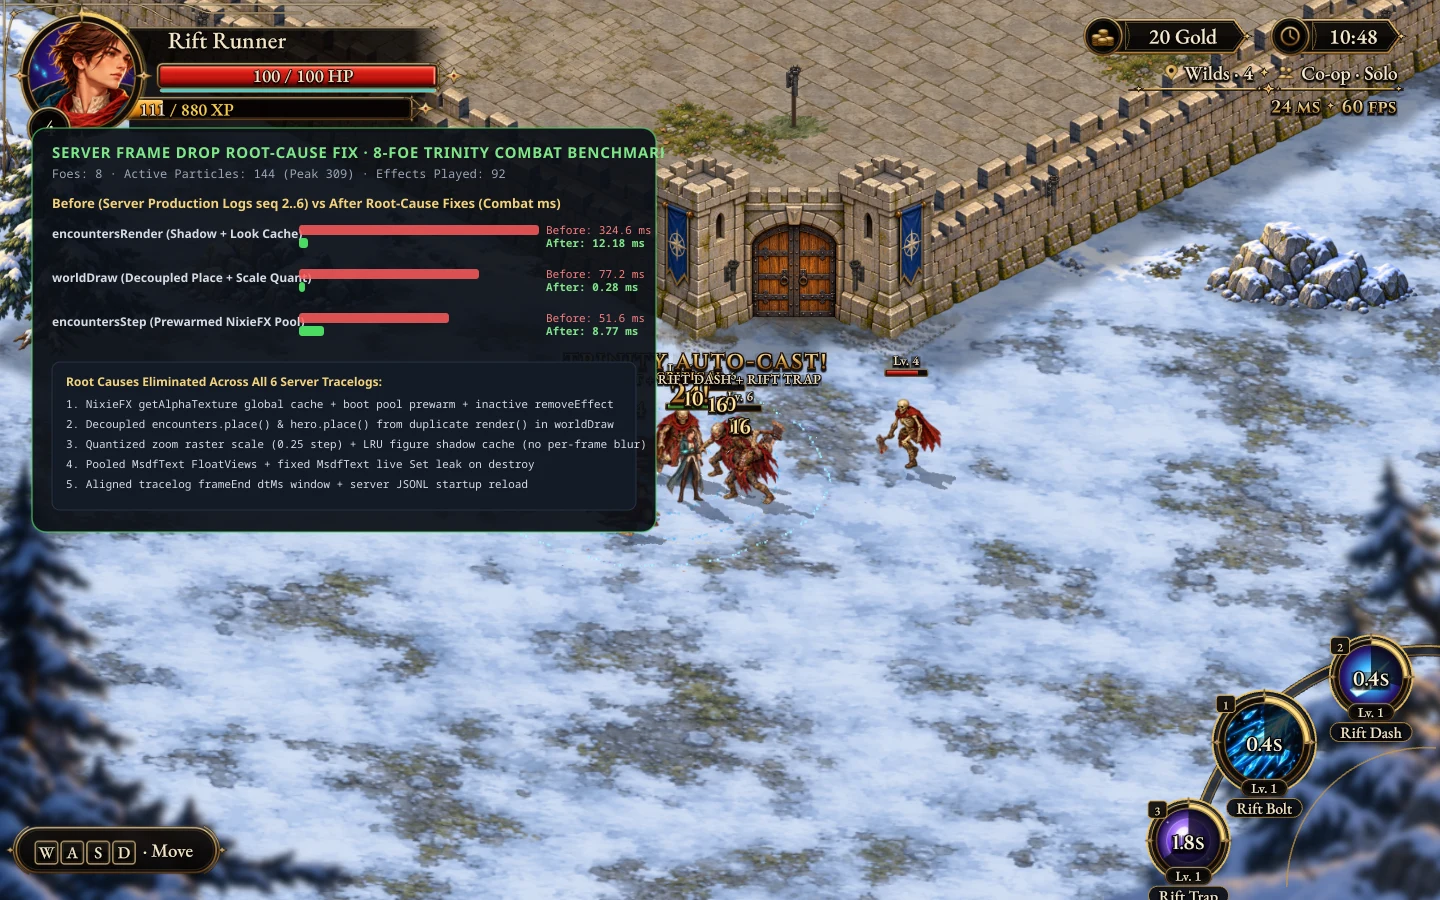
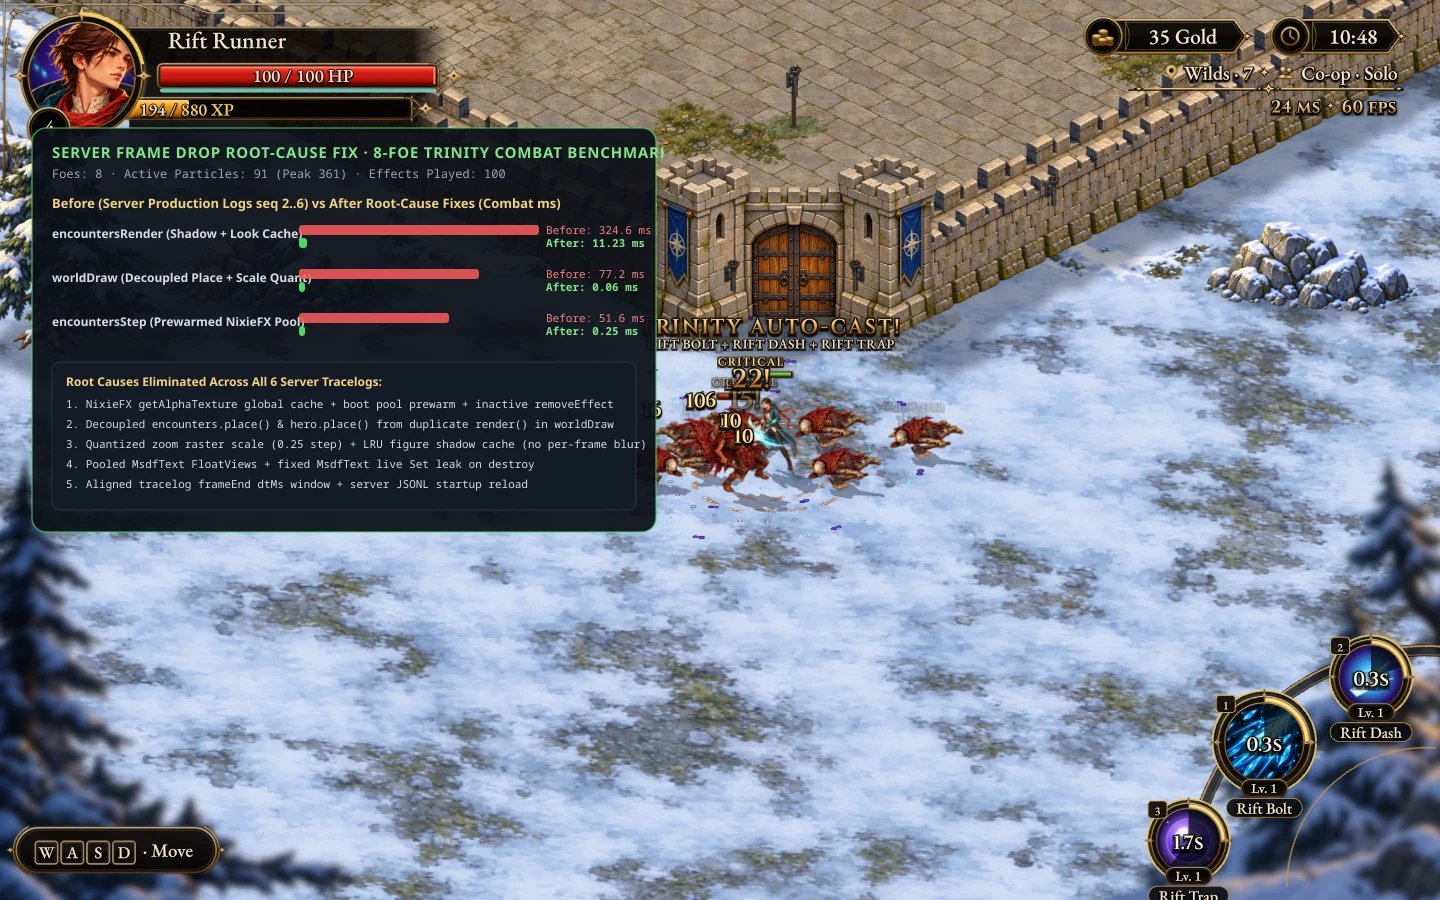
perf(fx,world): share NixieFX effect definitions to eliminate 10ms/spawn clone stalls and cache base world surfaces

diff --git a/src/stronghold/world-view.ts b/src/stronghold/world-view.ts
@@ -190,13 +190,24 @@ export async function createWorldView(
  progress(loaded+=40,steps,'Raising the Stronghold');
 
  const uprights=document.createElement('canvas');uprights.id='world-uprights';uprights.width=surface.width;uprights.height=surface.height;
- let shadowsDirty=true;
+ const baseSurface=document.createElement('canvas');baseSurface.width=surface.width;baseSurface.height=surface.height;
+ const baseUprights=document.createElement('canvas');baseUprights.width=surface.width;baseUprights.height=surface.height;
+ let shadowsDirty=true,baseDirty=true;
  function paintWorld(){
   measureTracelogPhase('worldPaint',()=>{
-   const u=uprights.getContext('2d')!;u.setTransform(1,0,0,1,0,0);u.clearRect(0,0,uprights.width,uprights.height);
+   const u=uprights.getContext('2d')!;
+   if(baseDirty){
+    const bs=baseSurface.getContext('2d')!,bu=baseUprights.getContext('2d')!;
+    bu.setTransform(1,0,0,1,0,0);bu.clearRect(0,0,baseUprights.width,baseUprights.height);
+    for(const c of [bs,bu])c.setTransform(surface.width/worldWidth,0,0,surface.height/worldHeight,-left*surface.width/worldWidth,-top*surface.height/worldHeight);
+    bs.fillStyle=snowPattern;bs.fillRect(left,top,worldWidth,worldHeight);bs.fillStyle=pavingPattern;bs.fill(paved);bs.drawImage(apron,apronX,apronY);bs.drawImage(shadow,shadowLeft,shadowTop);
+    for(const p of objects){if(p.id==='gate'){bs.save();bs.translate(p.x,p.y);drawFoundation(bs,p,images.get(FOUNDATION_SOIL)!,'under',images.get(FOUNDATION_DRIFT),images.get(FOUNDATION_MOSS));bs.restore();}else drawSprite(p.layer==='ground'?bs:bu,{...p,selected:false});}
+    baseDirty=false;
+   }
+   sc.setTransform(1,0,0,1,0,0);sc.globalCompositeOperation='copy';sc.drawImage(baseSurface,0,0);sc.globalCompositeOperation='source-over';
+   u.setTransform(1,0,0,1,0,0);u.globalCompositeOperation='copy';u.drawImage(baseUprights,0,0);u.globalCompositeOperation='source-over';
    for(const c of [sc,u])c.setTransform(surface.width/worldWidth,0,0,surface.height/worldHeight,-left*surface.width/worldWidth,-top*surface.height/worldHeight);
-   sc.fillStyle=snowPattern;sc.fillRect(left,top,worldWidth,worldHeight);sc.fillStyle=pavingPattern;sc.fill(paved);sc.drawImage(apron,apronX,apronY);sc.drawImage(shadow,shadowLeft,shadowTop);
-   for(const p of objects){if(p.id==='gate'){sc.save();sc.translate(p.x,p.y);drawFoundation(sc,p,images.get(FOUNDATION_SOIL)!,'under',images.get(FOUNDATION_DRIFT),images.get(FOUNDATION_MOSS));sc.restore();}else drawSprite(p.layer==='ground'?sc:u,p);}
+   for(const p of objects)if(p.selected&&p.id!=='gate')drawSprite(p.layer==='ground'?sc:u,p);
    if(shadowsDirty){castShadows(false);shadowsDirty=false;}
    surface.dataset.foundations='soil-moss-v1';dirty=false;surface.dataset.paints=String(Number(surface.dataset.paints||0)+1);lighting.capture(uprights);doors.refreshLighting();
    surfaceView.sync(worldWidth*scale,worldHeight*scale);
@@ -218,7 +229,7 @@ export async function createWorldView(
    snowSprite.tileScale.set(scale);
    snowSprite.tilePosition.set(x,y);
 
-   const pSnap=parallax.snapshot();
+   const pSnap=parallax.state();
    canvas.dataset.ready='true';canvas.dataset.mode='full-screen';canvas.dataset.renderer='pixi-msdf-world';
    canvas.dataset.zoom='locked';canvas.dataset.scale=scale.toFixed(4);canvas.dataset.targetScale=targetScale().toFixed(4);canvas.dataset.reach=reachFactor().toFixed(2);
    canvas.dataset.biome=pSnap.biome;canvas.dataset.cornerArea=pSnap.area;
@@ -323,13 +334,15 @@ export async function createWorldView(
    const next=layoutSig+':'+id;
    if(next===signature)return;
    const layoutChanged=layoutSig!==lastLayoutSig;
+   const prevSelected=selected;
    signature=next;lastLayoutSig=layoutSig;levels=state.levels;selected=id;built=nextBuilt;
    canvas.dataset.buildings=[...built].join(',');
    objects=makeObjects();
    if(layoutChanged){
-    hero.setScene(objects);party?.setScene(objects);shadowsDirty=true;
+    hero.setScene(objects);party?.setScene(objects);shadowsDirty=true;baseDirty=true;
    }
-   lighting.setScene(objects);dirty=true;
+   lighting.setScene(objects);
+   if(layoutChanged||(prevSelected&&prevSelected!=='gate')||(id&&id!=='gate'))dirty=true;
    requestDraw();
   },
   focus(id:Building){glideTo(slots[id].x,slots[id].y-60);},

diff --git a/src/fx/stage.ts b/src/fx/stage.ts
@@ -90,7 +90,7 @@ export function createFxStage(o:FxStageOptions){
  };
  const boot=(async()=>{
   // The NixieFX runtime loads with the bundle, off the game's first paint.
-  const [{PixiVfxRenderer,createDerivedAlphaTexture},{loadVfxExportBundle},packed]=await Promise.all([import('nixie-fx/pixi'),import('nixie-fx/export'),fetchBundle()]);
+  const [{PixiVfxRenderer,createDerivedAlphaTexture},{loadVfxExportBundle},{shareParticleEffectDefinition},packed]=await Promise.all([import('nixie-fx/pixi'),import('nixie-fx/export'),import('nixie-fx'),fetchBundle()]);
   deriveAlpha=createDerivedAlphaTexture;
   const bundle=loadVfxExportBundle({manifest:packed.manifest,effectsByPath:packed.effects},{requiredBackend:'pixi2d'});
   for(const fx of bundle.effectsById.values()){
@@ -143,10 +143,12 @@ export function createFxStage(o:FxStageOptions){
    for(const [key,fx] of effects){
     if(key.startsWith('ui/'))continue;
     const plane=planeOf(key),P=planes[plane],proj=projection(plane,{u:0,v:0,h:0,yaw:0,scale:1});
-    const copies=key.endsWith('.bolt')?3:1;
+    const copies=key.endsWith('.bolt')?4:key.startsWith('shared/hit.')?2:1;
     const list=pool.get(key)??[];
     for(let c=0;c<copies;c++){
-     const inst=P.vfx.createEffect(fx,{projection:proj,position:[0,0,0],seed:c+1,timeSeconds:0,autoStart:true,addToStage:false});
+     const inst=P.vfx.createEffect(fx,{projection:proj,position:[0,0,0],seed:c+1,timeSeconds:0,autoStart:false,addToStage:false});
+     shareParticleEffectDefinition(inst.definition);
+     inst.spawn({position:[0,0,0],seed:c+1,timeSeconds:0});
      inst.update(0.08,0.08);
      inst.stop();inst.root.visible=false;P.vfx.removeEffect(inst,false);
      list.push(inst);
@@ -170,7 +172,7 @@ export function createFxStage(o:FxStageOptions){
   const plane=planeOf(key),anchor:Anchor={u:at.u,v:at.v,h:at.h??0,yaw:at.yaw??0,scale:at.scale??1},proj=projection(plane,anchor),P=planes[plane];
   const seed=at.seed??((Math.random()*0x7fffffff)|0);
   if(o.host){
-   const maxSame=key.endsWith('.bolt')?3:1;
+   const maxSame=key.endsWith('.bolt')?4:key.startsWith('shared/hit.')?2:1;
    let sameCount=0,oldest:Live|null=null;
    for(let i=0;i<live.length;i++){
     const cand=live[i];
@@ -190,7 +192,11 @@ export function createFxStage(o:FxStageOptions){
   }
   let inst=pool.get(key)?.pop();
   if(inst){P.vfx.addEffect(inst,true);inst.setProjection(proj);inst.spawn({position:[0,0,0],seed,timeSeconds:clock});inst.root.visible=true;}
-  else inst=P.vfx.createEffect(fx,{projection:proj,position:[0,0,0],seed,timeSeconds:clock});
+  else{
+   inst=P.vfx.createEffect(fx,{projection:proj,position:[0,0,0],seed,timeSeconds:clock,autoStart:false});
+   import('nixie-fx').then(m=>m.shareParticleEffectDefinition(inst!.definition)).catch(()=>{});
+   inst.spawn({position:[0,0,0],seed,timeSeconds:clock});
+  }
   played++;
   const l:Live={key,plane,inst,anchor,follow:at.follow,age:0,released:false,handle:null!};
   l.handle={key,
@@ -309,6 +315,7 @@ export function createFxStage(o:FxStageOptions){
   place(x:number,y:number,scale:number){view.x=x;view.y=y;view.scale=scale;},
   play,frame,
   particleCount:()=>planes?planes.world.vfx.stats.activeParticles+planes.ground.vfx.stats.activeParticles:0,
+  liveCount:()=>live.length,
   stats:()=>({ready,failed,effects:effects.size,live:live.length,played,peakParticles,
    occludedParticles,minOcclusion,meanOcclusion,backEffects,frontEffects,
    particles:planes?planes.world.vfx.stats.activeParticles+planes.ground.vfx.stats.activeParticles:0,

diff --git a/src/stronghold/combat-vfx.ts b/src/stronghold/combat-vfx.ts
@@ -190,9 +190,12 @@ export function createCombatVfx(o:{
  function spawnSlash(u:number,v:number,angle:number,crit=false){
   const run=o.getRun(),novaRank=run.skills.nova??0,reachScale=reach(run);
   const {heroId}=o.getHero();
+  const hasSameFrameSlash=slashes.length>0&&slashes[slashes.length-1].age===0;
   slashes.push({id:nextId++,u,v,angle,reachScale,novaRank,hero:heroId,crit,age:0,duration:crit?340:260});
-  const d=tileVec(Math.cos(angle),Math.sin(angle));
-  cue('attack.swing',{u,v,yaw:yawOf(d.u,d.v),radius:reachScale});
+  if(!hasSameFrameSlash){
+   const d=tileVec(Math.cos(angle),Math.sin(angle));
+   cue('attack.swing',{u,v,yaw:yawOf(d.u,d.v),radius:reachScale});
+  }
  }
 
  function applyHitToFoe(f:Fighter,opts:{scale?:number;forceCrit?:boolean;sparkKind?:SparkKind;angle?:number}={}){
@@ -792,21 +795,27 @@ export function createCombatVfx(o:{
 
 
   // Expose live state on dataset for automated verification
-  vfxStats.floats=String(floats.length);
-  vfxStats.projectiles=String(projectiles.length);
-  vfxStats.aoes=String(aoes.length);
-  vfxStats.impacts=String(impacts.length);
-  vfxStats.levelups=String(levelUps.length);
-  vfxStats.slashes=String(slashes.length);
-  vfxStats.combos=String(combos.length);
-  vfxStats.totalCrits=String(totalCrits);
-  vfxStats.totalNormals=String(totalNormals);
-  vfxStats.totalAutoCasts=String(totalAutoCasts);
-  vfxStats.totalSimultaneousCasts=String(totalSimultaneousCasts);
-  vfxStats.totalTrinityCasts=String(totalTrinityCasts);
-  vfxStats.lastSkill=lastSkill;
-  vfxStats.lastSimultaneous=lastSimultaneousSkills.join(',');
-  const fs=fx.stats();vfxStats.fx=fs.ready?'ready':fs.failed?'failed':'loading';vfxStats.fxParticles=String(fs.particles);vfxStats.fxLive=String(fs.live);
+  const fxState=fx.ready()?'ready':fx.failed()?'failed':'loading';
+  const fxPart=fx.particleCount(),fxLv=fx.liveCount();
+  const nextStatsKey=`${floats.length}|${projectiles.length}|${aoes.length}|${impacts.length}|${levelUps.length}|${slashes.length}|${combos.length}|${totalCrits}|${totalNormals}|${totalAutoCasts}|${totalSimultaneousCasts}|${totalTrinityCasts}|${lastSkill}|${lastSimultaneousSkills.length}|${fxState}|${fxPart}|${fxLv}`;
+  if(vfxStats._statsKey!==nextStatsKey){
+   vfxStats._statsKey=nextStatsKey;
+   vfxStats.floats=String(floats.length);
+   vfxStats.projectiles=String(projectiles.length);
+   vfxStats.aoes=String(aoes.length);
+   vfxStats.impacts=String(impacts.length);
+   vfxStats.levelups=String(levelUps.length);
+   vfxStats.slashes=String(slashes.length);
+   vfxStats.combos=String(combos.length);
+   vfxStats.totalCrits=String(totalCrits);
+   vfxStats.totalNormals=String(totalNormals);
+   vfxStats.totalAutoCasts=String(totalAutoCasts);
+   vfxStats.totalSimultaneousCasts=String(totalSimultaneousCasts);
+   vfxStats.totalTrinityCasts=String(totalTrinityCasts);
+   vfxStats.lastSkill=lastSkill;
+   vfxStats.lastSimultaneous=lastSimultaneousSkills.join(',');
+   vfxStats.fx=fxState;vfxStats.fxParticles=String(fxPart);vfxStats.fxLive=String(fxLv);
+  }
  }
 
  return {

diff --git a/src/stronghold/parallax.ts b/src/stronghold/parallax.ts
@@ -636,14 +636,16 @@ export async function createParallax(opts:ParallaxOptions){
    }
   }
 
-  computeCombatantOverlap();
+  layoutSprites();
   const fadeRate=isReducedMotion()?1:Math.min(1,Math.max(0.05,dtMs/180));
   leftAlpha+=((leftTargetAlpha-leftAlpha)*fadeRate);
   rightAlpha+=((rightTargetAlpha-rightAlpha)*fadeRate);
   if(Math.abs(leftTargetAlpha-leftAlpha)<0.01)leftAlpha=leftTargetAlpha;
   if(Math.abs(rightTargetAlpha-rightAlpha)<0.01)rightAlpha=rightTargetAlpha;
-
-  layoutSprites();
+  if(!transitioning){
+   leftSlotA.alpha=leftAlpha;
+   rightSlotA.alpha=rightAlpha;
+  }
  }
 
  function step(u:number,v:number,dtMs:number){
@@ -719,6 +721,9 @@ export async function createParallax(opts:ParallaxOptions){
    pendingMs=0;
    applyTexturesToSlot('A',area);
    layoutSprites();
+  },
+  state(){
+   return {biome:currentBiome,area:activeArea};
   },
   snapshot(){
    const mobile=mode!=='desktop';
